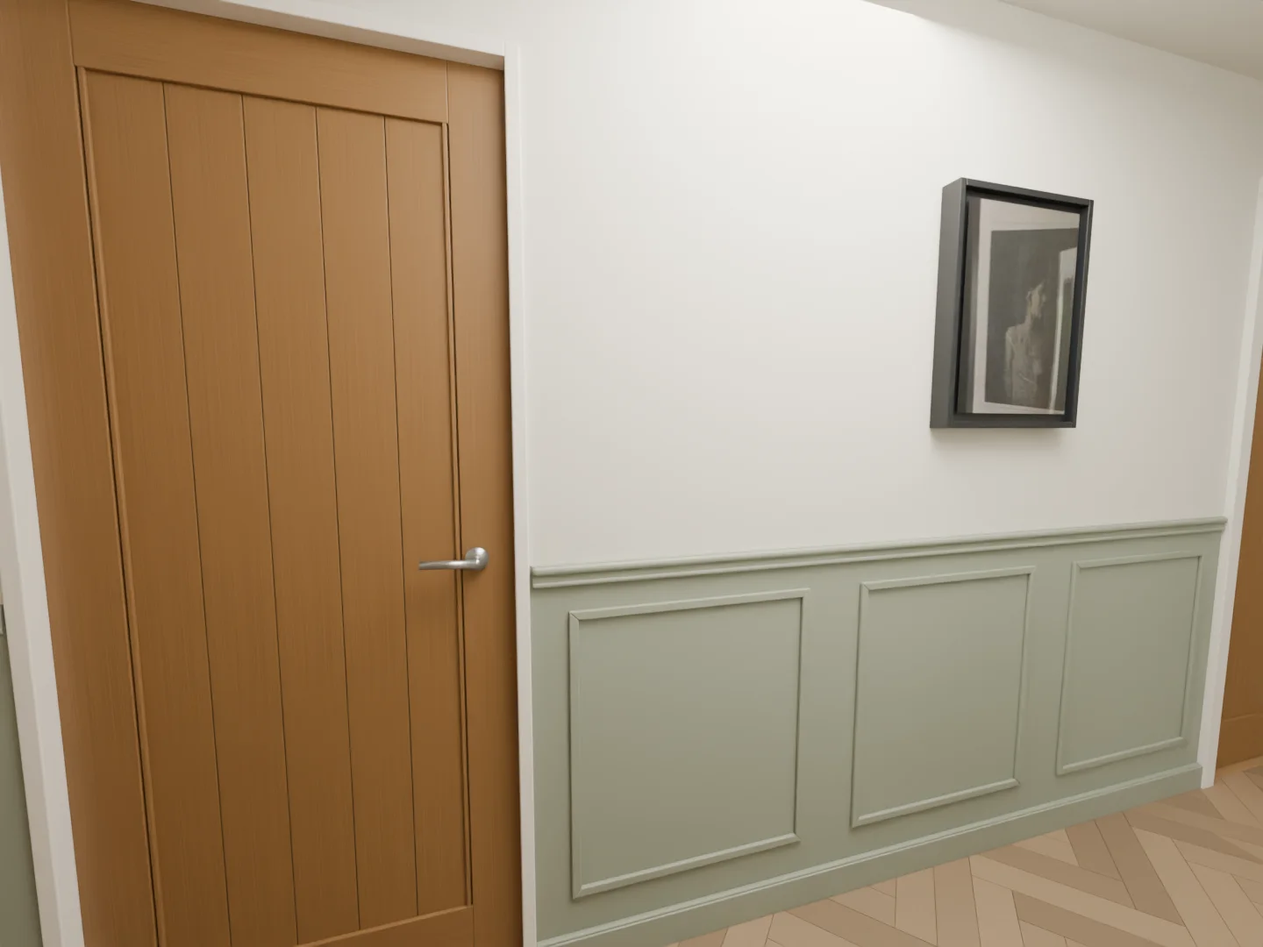
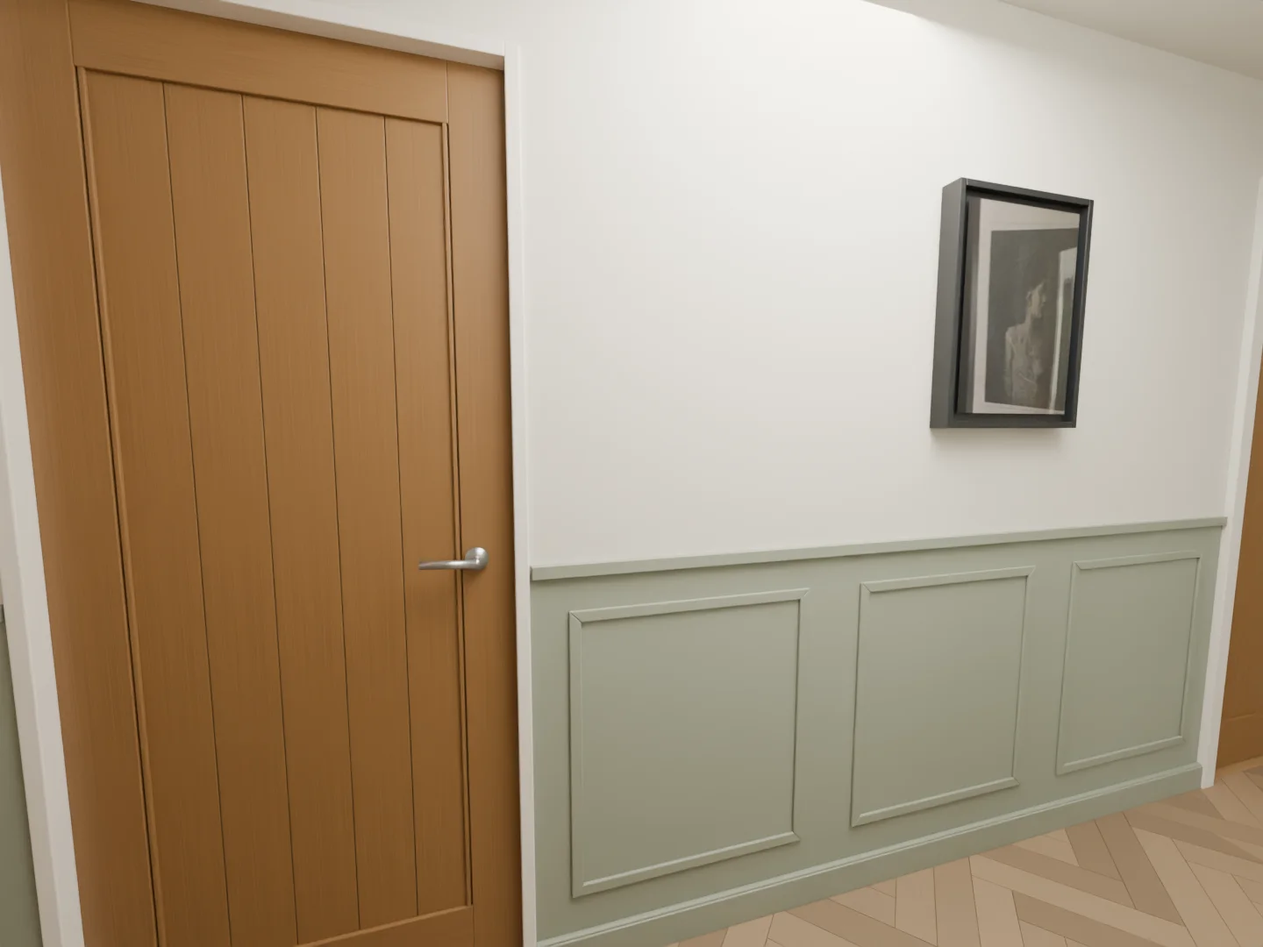
feat: use selected Wickes mouldings
Specify Wickes 121175 for main dado and 121300 for frames and
the shallow sliding-door dado. Order 8 and 23 lengths, including
one spare of each product.

Refresh the room previews, cut tables, clearance diagram and PDF.
Keep the 15 mm-deep cover moulding off the sliding-door wall.

diff --git a/frames/index.html b/frames/index.html
@@ -1,3 +1,3 @@
 <!doctype html>
 <html lang="en-GB"><head><meta charset="utf-8"><meta name="viewport" content="width=device-width,initial-scale=1"><title>Fine moulded frames | Hallway panelling</title><meta name="description" content="Fine rectangular mouldings add detail without covering the wall. A shaped dado gives the design a more traditional finish."><meta name="theme-color" content="#22352f"><link rel="stylesheet" href="../assets/style.css"><script src="../assets/gallery.js" defer></script></head>
-<body><a class="skip" href="#main">Skip to content</a><header class="site-header"><a class="wordmark" href="../">Hallway / Panelling</a><a class="pack-link" href="../assets/hallway-panelling-materials-and-cuts.pdf">Cutting pack <span>(PDF)</span> ↗</a></header><main id="main"><div class="page-title"><a class="back" href="../#options">← All three options</a><div class="title-row"><div><h1>Fine moulded frames</h1><p>Slim picture frames. A shaped dado.</p></div><div class="difficulty"><strong>Medium DIY</strong><p>16 frames need 64 accurately cut pieces. No backing sheet is needed.</p></div></div></div><nav class="section-nav" aria-label="Preview sections"><a href="#barn-door">Barn door and corner ↓</a><a href="#materials">Materials and cuts ↓</a></nav><section class="gallery" aria-label="Hallway views"><h2>Hallway views</h2><nav class="gallery-nav" aria-label="Choose hallway views"><a href="#view-hall">Towards the cupboard</a><a href="#view-hallway-rear">Rear door</a><a href="#view-hallway-bathroom">Bathroom wall</a><a href="#view-hallway-photos">Photo wall</a><a href="#view-cabinet">Cabinet wall</a><a href="#view-hallway-entrance">Entrance doorway</a><a href="#view-hallway-bedroom">Bedroom doorway</a><a href="#view-overview">Hallway plan</a></nav><figure id="view-hall"><img src="../assets/frames-hall.webp" alt="Towards the cupboard with fine moulded frames" width="1440" height="1080" loading="eager"><figcaption>Towards the cupboard</figcaption></figure><figure id="view-hallway-rear"><img src="../assets/frames-hallway-rear.webp" alt="Rear door with fine moulded frames" width="1440" height="1080" loading="lazy"><figcaption>Rear door · Doors shown closed to make the wall visible.</figcaption></figure><figure id="view-hallway-bathroom"><img src="../assets/frames-hallway-bathroom.webp" alt="Bathroom wall with fine moulded frames" width="1440" height="1080" loading="lazy"><figcaption>Bathroom wall · Doors shown closed to make the wall visible.</figcaption></figure><figure id="view-hallway-photos"><img src="../assets/frames-hallway-photos.webp" alt="Photo wall with fine moulded frames" width="1440" height="1080" loading="lazy"><figcaption>Photo wall · Doors shown closed to make the wall visible.</figcaption></figure><figure id="view-cabinet"><img src="../assets/frames-cabinet.webp" alt="Cabinet wall with fine moulded frames" width="1440" height="1080" loading="lazy"><figcaption>Cabinet wall</figcaption></figure><figure id="view-hallway-entrance"><img src="../assets/frames-hallway-entrance.webp" alt="Entrance doorway with fine moulded frames" width="1440" height="1080" loading="lazy"><figcaption>Entrance doorway · Doors shown closed to make the wall visible.</figcaption></figure><figure id="view-hallway-bedroom"><img src="../assets/frames-hallway-bedroom.webp" alt="Bedroom doorway with fine moulded frames" width="1440" height="1080" loading="lazy"><figcaption>Bedroom doorway · Doors shown closed to make the wall visible.</figcaption></figure><figure id="view-overview"><img src="../assets/frames-overview.webp" alt="Hallway plan with fine moulded frames" width="1440" height="1080" loading="lazy"><figcaption>Hallway plan</figcaption></figure></section><section class="gallery" aria-label="Entrance views"><h2>Entrance views</h2><nav class="gallery-nav" aria-label="Choose entrance views"><a href="#view-entrance-front">Front door</a><a href="#view-entrance-mirror">Mirror and radiator</a><a href="#view-entrance-hall">Connecting doorway</a><a href="#view-entrance-overview">Entrance plan</a></nav><figure id="view-entrance-front"><img src="../assets/frames-entrance-front.webp" alt="Front door with fine moulded frames" width="1440" height="1080" loading="eager"><figcaption>Front door</figcaption></figure><figure id="view-entrance-mirror"><img src="../assets/frames-entrance-mirror.webp" alt="Mirror and radiator with fine moulded frames" width="1440" height="1080" loading="lazy"><figcaption>Mirror and radiator</figcaption></figure><figure id="view-entrance-hall"><img src="../assets/frames-entrance-hall.webp" alt="Connecting doorway with fine moulded frames" width="1440" height="1080" loading="lazy"><figcaption>Connecting doorway</figcaption></figure><figure id="view-entrance-overview"><img src="../assets/frames-entrance-overview.webp" alt="Entrance plan with fine moulded frames" width="1440" height="1080" loading="lazy"><figcaption>Entrance plan</figcaption></figure></section><section id="barn-door" class="barn-check"><h2>The barn door and the corner</h2><p>The door has a measured 15 mm gap behind it. This design uses shallow trim on E1 so the door can pass. The view includes the front-door corner and the change to the deeper cap.</p><section class="gallery" aria-label="Door positions"><h2>Door positions</h2><nav class="gallery-nav" aria-label="Choose door positions"><a href="#view-barn-closed">Door closed</a><a href="#view-barn-part-open">Door partly open</a><a href="#view-barn-open">Door open</a></nav><figure id="view-barn-closed"><img src="../assets/frames-barn-closed.webp" alt="Door closed with fine moulded frames" width="1440" height="1080" loading="eager"><figcaption>Door closed</figcaption></figure><figure id="view-barn-part-open"><img src="../assets/frames-barn-part-open.webp" alt="Door partly open with fine moulded frames" width="1440" height="1080" loading="lazy"><figcaption>Door partly open</figcaption></figure><figure id="view-barn-open"><img src="../assets/frames-barn-open.webp" alt="Door open with fine moulded frames" width="1440" height="1080" loading="lazy"><figcaption>Door open</figcaption></figure></section><div class="clearance-notes"><p><strong>4 mm remains behind the door</strong> before adhesive and fitting variation. The standard 18–23 mm caps cannot pass through the 15 mm gap.</p><p>The model shows <strong>111 mm to the front-corner trim</strong> at the open pose, and 96 mm to the hallway-corner trim when closed. No trim intersects the modelled door over this travel.</p><p>Closed, partly open and open views use 0, 400 and 800 mm travel. The space beyond the barn opening is not surveyed and is shown blank. The 800 mm stop position is assumed. Measure the actual end position and dry-fit the trim with adhesive before cutting. The model does not prove clearance for an unmeasured handle or door movement.</p><p><a href="../assets/barn-clearance.svg">Open the clearance diagram ↗</a></p></div></section><p class="preview-note">The entrance floor is 25 mm lower. Its 1025 mm dado meets the hallway dado at the same physical height. The connecting wall is 140 mm thick, excluding trim.</p><div class="dimension-strip"><div><span>Dado: hall / entrance</span><strong>1000 / 1025 mm</strong></div><div><span>Frames: hall / entrance</span><strong>705 / 805 mm</strong></div><div><span>Frames in both rooms</span><strong>16</strong></div></div><nav class="section-nav" aria-label="On this page"><a href="#materials">Materials</a><a href="#cuts">Cut schedule</a><a href="#fitting">Fitting notes</a><a href="../assets/hallway-panelling-materials-and-cuts.pdf#page=7">PDF for this option ↗</a></nav><div class="document"><section id="materials"><h2>What you need</h2><p>Fine rectangular mouldings add detail without covering the wall. A shaped dado gives the design a more traditional finish.</p><div class="table-scroll" tabindex="0" role="region" aria-label="Main materials"><table><caption>Main materials</caption><thead><tr><th scope="col">Material / section (mm)</th><th scope="col">Buy</th><th scope="col">Allowance</th></tr></thead><tbody><tr><td>Panel mould, about 22 wide × 11 deep</td><td>22 × 2400 mm lengths</td><td>45.214 m installed; includes one spare length.</td></tr><tr><td>Standard shaped dado, 50 high × 19 deep</td><td>8 × 2400 mm lengths</td><td>14.290 m installed; includes one spare length.</td></tr><tr><td>Barn-wall flat dado, 50 high × 9 deep</td><td>1 × 2400 mm length</td><td>1.085 m installed. Keep this separate from the standard profile.</td></tr></tbody></table></div><details><summary>Paint, adhesive and tools</summary><div class="detail-body"><div class="table-scroll" tabindex="0" role="region" aria-label="Consumables"><table><caption>Consumables</caption><thead><tr><th scope="col">Supply</th><th scope="col">Planning allowance</th></tr></thead><tbody><tr><td>Construction adhesive, 290–310 ml</td><td>7–9 cartridges</td></tr><tr><td>Decorators caulk</td><td>3–4 cartridges</td></tr><tr><td>Fine filler</td><td>1 small tub</td></tr><tr><td>MDF / timber primer</td><td>1.5 litres</td></tr><tr><td>Coloured topcoat, two coats</td><td>About 4.1 litres</td></tr><tr><td>Other supplies</td><td>Abrasives, masking tape, dust sheets and suitable temporary fixings</td></tr></tbody></table></div><p>Coverage depends on the product and wall condition. The paint allowance uses about 17 m², two coats at 10 m² per litre and 20% extra. Use compatible wall and trim finishes. Tools include a tape, level, square, saw, mitre guide, adhesive gun and sanding tools; grooved sheets also need a guided saw and cutout templates.</p></div></details></section><section id="cuts"><h2>Lengths and cuts</h2><p>All dimensions below are in millimetres. Nominal sizes are intended finished sizes before corner details and site variation. Check the wall ends and profile samples before making final cuts.</p><div class="table-scroll" tabindex="0" role="region" aria-label="Frame cuts — outside long points"><table><caption>Frame cuts — outside long points</caption><thead><tr><th scope="col">Frame</th><th scope="col">Left edge (mm)</th><th scope="col">2 horizontal cuts (mm)</th><th scope="col">2 vertical cuts (mm)</th></tr></thead><tbody><tr><td>W2a-F1</td><td>95</td><td>815</td><td>705</td></tr><tr><td>W2a-F2</td><td>1,005</td><td>900</td><td>705</td></tr><tr><td>W3a-F1</td><td>95</td><td>460</td><td>705</td></tr><tr><td>W3a-F2</td><td>650</td><td>805</td><td>705</td></tr><tr><td>W3a-F3</td><td>1,550</td><td>500</td><td>705</td></tr><tr><td>W5b-F1</td><td>1,161</td><td>629.3</td><td>705</td></tr><tr><td>W5b-F2</td><td>1,950.3</td><td>629.3</td><td>705</td></tr><tr><td>W5b-F3</td><td>2,739.7</td><td>629.3</td><td>705</td></tr><tr><td>W6b-F1</td><td>1,060</td><td>810</td><td>705</td></tr><tr><td>W6b-F2</td><td>2,020</td><td>920</td><td>705</td></tr><tr><td>W6b-F3</td><td>3,090</td><td>935</td><td>705</td></tr><tr><td>W7a-F1</td><td>86</td><td>288</td><td>705</td></tr><tr><td>E1b-F1</td><td>941</td><td>778</td><td>805</td></tr><tr><td>E2b-F1</td><td>1,076</td><td>248</td><td>805</td></tr><tr><td>E3a-F1</td><td>80</td><td>1,000</td><td>805</td></tr><tr><td>E3a-F2</td><td>1,160</td><td>580</td><td>805</td></tr></tbody></table></div><details><summary>Wall key and all dado lengths <span>15.375 m total</span></summary><div class="detail-body"><p>All three options use these 20 wall-face runs across both rooms. Apply the schedule once for each continuous rail or cap part. W1 is the rear door and has no rail.</p><img class="wall-key" src="../assets/wall-key.svg" alt="Numbered hallway walls, from W1 at the rear door clockwise to W8 at the rear recess" width="650" height="560"><img class="wall-key" src="../assets/entrance-wall-key.svg" alt="Entrance wall key: E1 barn wall, E2 front door, E3 mirror wall, E4 connecting doorway" width="650" height="560"><div class="table-scroll" tabindex="0" role="region" aria-label="Nominal rail lengths"><table><caption>Nominal rail lengths</caption><thead><tr><th scope="col">Run</th><th scope="col">Wall section</th><th scope="col">Length (mm)</th></tr></thead><tbody><tr><td>W2a</td><td>Bathroom wall</td><td>2,000</td></tr><tr><td>W2b</td><td>Bathroom wall</td><td>220</td></tr><tr><td>W3a</td><td>Wedding-photo wall</td><td>2,145</td></tr><tr><td>W3b</td><td>Wedding-photo wall</td><td>190</td></tr><tr><td>W4a</td><td>Storage wall</td><td>107.5</td></tr><tr><td>W4b</td><td>Storage wall</td><td>107.5</td></tr><tr><td>W5a</td><td>Entrance and spare-bedroom wall</td><td>190</td></tr><tr><td>W5b</td><td>Entrance and spare-bedroom wall</td><td>2,380</td></tr><tr><td>W5c</td><td>Entrance and spare-bedroom wall</td><td>235</td></tr><tr><td>W6a</td><td>Kitchen and cabinet wall</td><td>110</td></tr><tr><td>W6b</td><td>Kitchen and cabinet wall</td><td>3,120</td></tr><tr><td>W7a</td><td>Rear boxing face</td><td>460</td></tr><tr><td>W8a</td><td>Rear recess return</td><td>180</td></tr><tr><td>E1a</td><td>Entrance barn wall</td><td>135</td></tr><tr><td>E1b</td><td>Entrance barn wall</td><td>950</td></tr><tr><td>E2a</td><td>Entrance front wall</td><td>90</td></tr><tr><td>E2b</td><td>Entrance front wall</td><td>420</td></tr><tr><td>E3a</td><td>Entrance mirror wall</td><td>1,800</td></tr><tr><td>E4a</td><td>Entrance connecting wall</td><td>260</td></tr><tr><td>E4b</td><td>Entrance connecting wall</td><td>275</td></tr></tbody></table></div><p>W4a and W4b assume the 990 mm storage frame is centred in the 1205 mm end wall. The 3120 mm W6b run needs a joint; allow two 1560 mm nominal pieces. For the 2400 mm shaped dado and grooved-panel caps, also split W5b (2380 mm) into two 1190 mm nominal pieces. This keeps the 30 mm trimming allowance. The Shaker top rails still use 2440 mm MDF strips; its standard cap uses the separate 10 mm allowance.</p></div></details><details><summary>Stock cutting schedule <span>Rough blanks in mm</span></summary><div class="detail-body"><p>These blanks include trimming allowance. They are not the final cut sizes. Keep every piece labelled. The schedule allows 3 mm saw loss per cut.</p><div class="table-scroll" tabindex="0" role="region" aria-label="Panel mould — 2400 mm stock"><table><caption>Panel mould — 2400 mm stock</caption><thead><tr><th scope="col">Stock / row</th><th scope="col">Blank labels and lengths (mm)</th><th scope="col">Left over (mm)</th></tr></thead><tbody><tr><td>1</td><td>E3a-F1H1: 1,030 + E3a-F1H2: 1,030 + W7a-F1H1: 318</td><td>3</td></tr><tr><td>2</td><td>W6b-F3H1: 965 + W6b-F3H2: 965 + W7a-F1H2: 318</td><td>133</td></tr><tr><td>3</td><td>W6b-F2H1: 950 + W6b-F2H2: 950 + E2b-F1H1: 278</td><td>203</td></tr><tr><td>4</td><td>W2a-F2H1: 930 + W2a-F2H2: 930 + W3a-F1H1: 490</td><td>31</td></tr><tr><td>5</td><td>W2a-F1H1: 845 + W2a-F1H2: 845 + W5b-F1H1: 660</td><td>31</td></tr><tr><td>6</td><td>W6b-F1H1: 840 + W6b-F1H2: 840 + W5b-F1H2: 660</td><td>41</td></tr><tr><td>7</td><td>W3a-F2H1: 835 + W3a-F2H2: 835 + W5b-F2H1: 660</td><td>51</td></tr><tr><td>8</td><td>E1b-F1V1: 835 + E1b-F1V2: 835 + W5b-F2H2: 660</td><td>51</td></tr><tr><td>9</td><td>E2b-F1V1: 835 + E2b-F1V2: 835 + W5b-F3H1: 660</td><td>51</td></tr><tr><td>10</td><td>E3a-F1V1: 835 + E3a-F1V2: 835 + W5b-F3H2: 660</td><td>51</td></tr><tr><td>11</td><td>E3a-F2V1: 835 + E3a-F2V2: 835 + E3a-F2H1: 610</td><td>101</td></tr><tr><td>12</td><td>E1b-F1H1: 808 + E1b-F1H2: 808 + W2a-F1V1: 735</td><td>30</td></tr><tr><td>13</td><td>W2a-F1V2: 735 + W2a-F2V1: 735 + W2a-F2V2: 735</td><td>176</td></tr><tr><td>14</td><td>W3a-F1V1: 735 + W3a-F1V2: 735 + W3a-F2V1: 735</td><td>176</td></tr><tr><td>15</td><td>W3a-F2V2: 735 + W3a-F3V1: 735 + W3a-F3V2: 735</td><td>176</td></tr><tr><td>16</td><td>W5b-F1V1: 735 + W5b-F1V2: 735 + W5b-F2V1: 735</td><td>176</td></tr><tr><td>17</td><td>W5b-F2V2: 735 + W5b-F3V1: 735 + W5b-F3V2: 735</td><td>176</td></tr><tr><td>18</td><td>W6b-F1V1: 735 + W6b-F1V2: 735 + W6b-F2V1: 735</td><td>176</td></tr><tr><td>19</td><td>W6b-F2V2: 735 + W6b-F3V1: 735 + W6b-F3V2: 735</td><td>176</td></tr><tr><td>20</td><td>W7a-F1V1: 735 + W7a-F1V2: 735 + E3a-F2H2: 610 + E2b-F1H2: 278</td><td>20</td></tr><tr><td>21</td><td>W3a-F3H1: 530 + W3a-F3H2: 530 + W3a-F1H2: 490</td><td>831</td></tr></tbody></table></div><div class="table-scroll" tabindex="0" role="region" aria-label="Standard shaped dado — 2400 mm stock"><table><caption>Standard shaped dado — 2400 mm stock</caption><thead><tr><th scope="col">Stock / row</th><th scope="col">Blank labels and lengths (mm)</th><th scope="col">Left over (mm)</th></tr></thead><tbody><tr><td>1</td><td>W3a: 2,175 + W6a: 140</td><td>69</td></tr><tr><td>2</td><td>W2a: 2,030 + E4b: 305</td><td>49</td></tr><tr><td>3</td><td>E3a: 1,830 + W7a: 490</td><td>64</td></tr><tr><td>4</td><td>W6b-1: 1,590 + E2b: 450 + E4a: 290</td><td>51</td></tr><tr><td>5</td><td>W6b-2: 1,590 + W5c: 265 + W2b: 250 + W3b: 220</td><td>53</td></tr><tr><td>6</td><td>W5b-1: 1,220 + W5a: 220 + W8a: 210 + W4a: 138 + W4b: 138 + E2a: 120</td><td>326</td></tr><tr><td>7</td><td>W5b-2: 1,220</td><td>1,167</td></tr></tbody></table></div><div class="table-scroll" tabindex="0" role="region" aria-label="Shallow barn-wall dado — 2400 mm stock"><table><caption>Shallow barn-wall dado — 2400 mm stock</caption><thead><tr><th scope="col">Stock / row</th><th scope="col">Blank labels and lengths (mm)</th><th scope="col">Left over (mm)</th></tr></thead><tbody><tr><td>1</td><td>E1b: 980 + E1a: 165</td><td>1,239</td></tr></tbody></table></div><p>Linear MDF, mould and dado blanks allow 30 mm extra per piece and 10 mm stock-end trimming. Only the standard Shaker cap schedule allows 10 mm extra per piece and 5 mm stock-end trimming. Check stock lengths first and use the spare if needed. Corner projections and actual wall angles set the final end cuts.</p></div></details></section><section id="fitting"><h2>Fit it to the room</h2><ol class="fitting-list"><li>Select a physical moulding sample before cutting. One shaped dado replaces the small profile layers shown in the render.</li><li>Hallway frames run from 185 to 890 mm above the floor. Entrance frames run from 110 to 915 mm. The dado starts at 950 and 975 mm respectively.</li><li>E1 uses a flat 9 mm dado. Its 11 mm frame mould leaves only 4 mm to the door before adhesive. Dry-fit the finished build-up through the full door travel.</li><li>Frame cuts are measured from outside long point to outside long point. Do not subtract the moulding width. Both ends are mitred.</li><li>One full frame continues behind each radiator. Check pipes, valves and brackets, and leave local gaps where needed. Radiator removal may need trade support.</li><li>Left edges are measured from the clockwise start of the whole numbered wall. Set equal frame widths on site.</li></ol><aside class="check"><h3>Still to check on site</h3><p>Measure the hallway radiator floor gaps, all valve and pipe positions, the depth at the top of the skirting, and the barn-door stop position. Pipes run above the skirting: no skirting notches are included. The hallway survey retains a 20 × 10 mm closure difference. The entrance has a 5 mm width and depth difference. Check corner angles and final wall lengths.</p></aside><a class="button" href="../assets/hallway-panelling-materials-and-cuts.pdf#page=7">Open the full cutting pack <span>↗</span></a></section></div><a class="next-option" href="../grooved/"><span>Next option</span><strong>Vertical grooved panels ↗</strong></a></main><footer><div><a class="wordmark" href="../">Hallway / Panelling</a><p>Three designs for the hallway and entrance.</p></div><nav aria-label="All options"><a href="../shaker/">Simple Shaker</a><a href="../frames/" aria-current="page">Fine moulded frames</a><a href="../grooved/">Vertical grooved panels</a></nav><p class="footer-note">Planning issue · 20 October 2026<br>Check final dimensions on site before cutting.</p></footer></body></html>
+<body><a class="skip" href="#main">Skip to content</a><header class="site-header"><a class="wordmark" href="../">Hallway / Panelling</a><a class="pack-link" href="../assets/hallway-panelling-materials-and-cuts.pdf">Cutting pack <span>(PDF)</span> ↗</a></header><main id="main"><div class="page-title"><a class="back" href="../#options">← All three options</a><div class="title-row"><div><h1>Fine moulded frames</h1><p>Wickes 3 Rise frames. A slim decorative dado.</p></div><div class="difficulty"><strong>Medium DIY</strong><p>16 frames need 64 accurately cut pieces. No backing sheet is needed.</p></div></div></div><nav class="section-nav" aria-label="Preview sections"><a href="#barn-door">Barn door and corner ↓</a><a href="#materials">Materials and cuts ↓</a></nav><section class="gallery" aria-label="Hallway views"><h2>Hallway views</h2><nav class="gallery-nav" aria-label="Choose hallway views"><a href="#view-hall">Towards the cupboard</a><a href="#view-hallway-rear">Rear door</a><a href="#view-hallway-bathroom">Bathroom wall</a><a href="#view-hallway-photos">Photo wall</a><a href="#view-cabinet">Cabinet wall</a><a href="#view-hallway-entrance">Entrance doorway</a><a href="#view-hallway-bedroom">Bedroom doorway</a><a href="#view-overview">Hallway plan</a></nav><figure id="view-hall"><img src="../assets/frames-hall.webp" alt="Towards the cupboard with fine moulded frames" width="1440" height="1080" loading="eager"><figcaption>Towards the cupboard</figcaption></figure><figure id="view-hallway-rear"><img src="../assets/frames-hallway-rear.webp" alt="Rear door with fine moulded frames" width="1440" height="1080" loading="lazy"><figcaption>Rear door · Doors shown closed to make the wall visible.</figcaption></figure><figure id="view-hallway-bathroom"><img src="../assets/frames-hallway-bathroom.webp" alt="Bathroom wall with fine moulded frames" width="1440" height="1080" loading="lazy"><figcaption>Bathroom wall · Doors shown closed to make the wall visible.</figcaption></figure><figure id="view-hallway-photos"><img src="../assets/frames-hallway-photos.webp" alt="Photo wall with fine moulded frames" width="1440" height="1080" loading="lazy"><figcaption>Photo wall · Doors shown closed to make the wall visible.</figcaption></figure><figure id="view-cabinet"><img src="../assets/frames-cabinet.webp" alt="Cabinet wall with fine moulded frames" width="1440" height="1080" loading="lazy"><figcaption>Cabinet wall</figcaption></figure><figure id="view-hallway-entrance"><img src="../assets/frames-hallway-entrance.webp" alt="Entrance doorway with fine moulded frames" width="1440" height="1080" loading="lazy"><figcaption>Entrance doorway · Doors shown closed to make the wall visible.</figcaption></figure><figure id="view-hallway-bedroom"><img src="../assets/frames-hallway-bedroom.webp" alt="Bedroom doorway with fine moulded frames" width="1440" height="1080" loading="lazy"><figcaption>Bedroom doorway · Doors shown closed to make the wall visible.</figcaption></figure><figure id="view-overview"><img src="../assets/frames-overview.webp" alt="Hallway plan with fine moulded frames" width="1440" height="1080" loading="lazy"><figcaption>Hallway plan</figcaption></figure></section><section class="gallery" aria-label="Entrance views"><h2>Entrance views</h2><nav class="gallery-nav" aria-label="Choose entrance views"><a href="#view-entrance-front">Front door</a><a href="#view-entrance-mirror">Mirror and radiator</a><a href="#view-entrance-hall">Connecting doorway</a><a href="#view-entrance-overview">Entrance plan</a></nav><figure id="view-entrance-front"><img src="../assets/frames-entrance-front.webp" alt="Front door with fine moulded frames" width="1440" height="1080" loading="eager"><figcaption>Front door</figcaption></figure><figure id="view-entrance-mirror"><img src="../assets/frames-entrance-mirror.webp" alt="Mirror and radiator with fine moulded frames" width="1440" height="1080" loading="lazy"><figcaption>Mirror and radiator</figcaption></figure><figure id="view-entrance-hall"><img src="../assets/frames-entrance-hall.webp" alt="Connecting doorway with fine moulded frames" width="1440" height="1080" loading="lazy"><figcaption>Connecting doorway</figcaption></figure><figure id="view-entrance-overview"><img src="../assets/frames-entrance-overview.webp" alt="Entrance plan with fine moulded frames" width="1440" height="1080" loading="lazy"><figcaption>Entrance plan</figcaption></figure></section><section id="barn-door" class="barn-check"><h2>The barn door and the corner</h2><p>The door has a measured 15 mm gap behind it. This design uses shallow trim on E1 so the door can pass. The view includes the front-door corner and the change to the deeper cap.</p><section class="gallery" aria-label="Door positions"><h2>Door positions</h2><nav class="gallery-nav" aria-label="Choose door positions"><a href="#view-barn-closed">Door closed</a><a href="#view-barn-part-open">Door partly open</a><a href="#view-barn-open">Door open</a></nav><figure id="view-barn-closed"><img src="../assets/frames-barn-closed.webp" alt="Door closed with fine moulded frames" width="1440" height="1080" loading="eager"><figcaption>Door closed</figcaption></figure><figure id="view-barn-part-open"><img src="../assets/frames-barn-part-open.webp" alt="Door partly open with fine moulded frames" width="1440" height="1080" loading="lazy"><figcaption>Door partly open</figcaption></figure><figure id="view-barn-open"><img src="../assets/frames-barn-open.webp" alt="Door open with fine moulded frames" width="1440" height="1080" loading="lazy"><figcaption>Door open</figcaption></figure></section><div class="clearance-notes"><p><strong>6 mm remains behind the door</strong> before adhesive and fitting variation. The 15 mm-deep cover moulding uses the full door gap, so E1 uses the 9 mm-deep 3 Rise moulding for its dado and frame.</p><p>The model shows <strong>115 mm to the front-corner trim</strong> at the open pose, and 100 mm to the hallway-corner trim when closed. No trim intersects the modelled door over this travel.</p><p>Closed, partly open and open views use 0, 400 and 800 mm travel. The space beyond the barn opening is not surveyed and is shown blank. The 800 mm stop position is assumed. Measure the actual end position and dry-fit the trim with adhesive before cutting. The model does not prove clearance for an unmeasured handle or door movement.</p><p><a href="../assets/barn-clearance.svg">Open the clearance diagram ↗</a></p></div></section><p class="preview-note">The entrance floor is 25 mm lower. Its 1025 mm dado meets the hallway dado at the same physical height. The connecting wall is 140 mm thick, excluding trim.</p><div class="dimension-strip"><div><span>Dado: hall / entrance</span><strong>1000 / 1025 mm</strong></div><div><span>Frames: hall / entrance</span><strong>705 / 805 mm</strong></div><div><span>Frames in both rooms</span><strong>16</strong></div></div><nav class="section-nav" aria-label="On this page"><a href="#materials">Materials</a><a href="#cuts">Cut schedule</a><a href="#fitting">Fitting notes</a><a href="../assets/hallway-panelling-materials-and-cuts.pdf#page=7">PDF for this option ↗</a></nav><div class="document"><section id="materials"><h2>What you need</h2><p>Fine rectangular mouldings add detail without covering the wall. A shaped dado gives the design a more traditional finish.</p><div class="table-scroll" tabindex="0" role="region" aria-label="Main materials"><table><caption>Main materials</caption><thead><tr><th scope="col">Material / section (mm)</th><th scope="col">Buy</th><th scope="col">Allowance</th></tr></thead><tbody><tr><td>Wickes Pine 3 Rise Panel Moulding (121300), 28 wide × 9 deep</td><td>23 × 2400 mm lengths</td><td>45.214 m of frames + 1.085 m of barn-wall dado; includes one spare length.</td></tr><tr><td>Wickes Pine Decorative Cover Moulding (121175), 29 high × 15 deep</td><td>8 × 2400 mm lengths</td><td>14.290 m installed; includes one spare length.</td></tr><tr><td>Barn-wall dado: use the same 28 × 9 mm 3 Rise moulding</td><td>Included in the 23 lengths above</td><td>E1a: 135 mm; E1b: 950 mm. Do not use the 15 mm-deep cover moulding here.</td></tr></tbody></table></div><p>Selected products: <a href="https://www.wickes.co.uk/Wickes-Pine-Decorative-Cover-Moulding---29-x-15-x-2400mm/p/121175">Wickes Pine Decorative Cover Moulding (121175)</a> · <a href="https://www.wickes.co.uk/Wickes-Pine-3-Rise-Panel-Moulding---28-x-9-x-2400mm/p/121300">Wickes Pine 3 Rise Panel Moulding (121300)</a>. The previews use the stated overall sections; decorative face details are simplified.</p><details><summary>Paint, adhesive and tools</summary><div class="detail-body"><div class="table-scroll" tabindex="0" role="region" aria-label="Consumables"><table><caption>Consumables</caption><thead><tr><th scope="col">Supply</th><th scope="col">Planning allowance</th></tr></thead><tbody><tr><td>Construction adhesive, 290–310 ml</td><td>7–9 cartridges</td></tr><tr><td>Decorators caulk</td><td>3–4 cartridges</td></tr><tr><td>Fine filler</td><td>1 small tub</td></tr><tr><td>MDF / timber primer</td><td>1.5 litres</td></tr><tr><td>Coloured topcoat, two coats</td><td>About 4.1 litres</td></tr><tr><td>Other supplies</td><td>Abrasives, masking tape, dust sheets and suitable temporary fixings</td></tr></tbody></table></div><p>Coverage depends on the product and wall condition. The paint allowance uses about 17 m², two coats at 10 m² per litre and 20% extra. Use compatible wall and trim finishes. Tools include a tape, level, square, saw, mitre guide, adhesive gun and sanding tools; grooved sheets also need a guided saw and cutout templates.</p></div></details></section><section id="cuts"><h2>Lengths and cuts</h2><p>All dimensions below are in millimetres. Nominal sizes are intended finished sizes before corner details and site variation. Check the wall ends and profile samples before making final cuts.</p><div class="table-scroll" tabindex="0" role="region" aria-label="Frame cuts — outside long points"><table><caption>Frame cuts — outside long points</caption><thead><tr><th scope="col">Frame</th><th scope="col">Left edge (mm)</th><th scope="col">2 horizontal cuts (mm)</th><th scope="col">2 vertical cuts (mm)</th></tr></thead><tbody><tr><td>W2a-F1</td><td>95</td><td>815</td><td>705</td></tr><tr><td>W2a-F2</td><td>1,005</td><td>900</td><td>705</td></tr><tr><td>W3a-F1</td><td>95</td><td>460</td><td>705</td></tr><tr><td>W3a-F2</td><td>650</td><td>805</td><td>705</td></tr><tr><td>W3a-F3</td><td>1,550</td><td>500</td><td>705</td></tr><tr><td>W5b-F1</td><td>1,161</td><td>629.3</td><td>705</td></tr><tr><td>W5b-F2</td><td>1,950.3</td><td>629.3</td><td>705</td></tr><tr><td>W5b-F3</td><td>2,739.7</td><td>629.3</td><td>705</td></tr><tr><td>W6b-F1</td><td>1,060</td><td>810</td><td>705</td></tr><tr><td>W6b-F2</td><td>2,020</td><td>920</td><td>705</td></tr><tr><td>W6b-F3</td><td>3,090</td><td>935</td><td>705</td></tr><tr><td>W7a-F1</td><td>86</td><td>288</td><td>705</td></tr><tr><td>E1b-F1</td><td>941</td><td>778</td><td>805</td></tr><tr><td>E2b-F1</td><td>1,076</td><td>248</td><td>805</td></tr><tr><td>E3a-F1</td><td>80</td><td>1,000</td><td>805</td></tr><tr><td>E3a-F2</td><td>1,160</td><td>580</td><td>805</td></tr></tbody></table></div><details><summary>Wall key and all dado lengths <span>15.375 m total</span></summary><div class="detail-body"><p>All three options use these 20 wall-face runs across both rooms. Apply the schedule once for each continuous rail or cap part. W1 is the rear door and has no rail.</p><img class="wall-key" src="../assets/wall-key.svg" alt="Numbered hallway walls, from W1 at the rear door clockwise to W8 at the rear recess" width="650" height="560"><img class="wall-key" src="../assets/entrance-wall-key.svg" alt="Entrance wall key: E1 barn wall, E2 front door, E3 mirror wall, E4 connecting doorway" width="650" height="560"><div class="table-scroll" tabindex="0" role="region" aria-label="Nominal rail lengths"><table><caption>Nominal rail lengths</caption><thead><tr><th scope="col">Run</th><th scope="col">Wall section</th><th scope="col">Length (mm)</th></tr></thead><tbody><tr><td>W2a</td><td>Bathroom wall</td><td>2,000</td></tr><tr><td>W2b</td><td>Bathroom wall</td><td>220</td></tr><tr><td>W3a</td><td>Wedding-photo wall</td><td>2,145</td></tr><tr><td>W3b</td><td>Wedding-photo wall</td><td>190</td></tr><tr><td>W4a</td><td>Storage wall</td><td>107.5</td></tr><tr><td>W4b</td><td>Storage wall</td><td>107.5</td></tr><tr><td>W5a</td><td>Entrance and spare-bedroom wall</td><td>190</td></tr><tr><td>W5b</td><td>Entrance and spare-bedroom wall</td><td>2,380</td></tr><tr><td>W5c</td><td>Entrance and spare-bedroom wall</td><td>235</td></tr><tr><td>W6a</td><td>Kitchen and cabinet wall</td><td>110</td></tr><tr><td>W6b</td><td>Kitchen and cabinet wall</td><td>3,120</td></tr><tr><td>W7a</td><td>Rear boxing face</td><td>460</td></tr><tr><td>W8a</td><td>Rear recess return</td><td>180</td></tr><tr><td>E1a</td><td>Entrance barn wall</td><td>135</td></tr><tr><td>E1b</td><td>Entrance barn wall</td><td>950</td></tr><tr><td>E2a</td><td>Entrance front wall</td><td>90</td></tr><tr><td>E2b</td><td>Entrance front wall</td><td>420</td></tr><tr><td>E3a</td><td>Entrance mirror wall</td><td>1,800</td></tr><tr><td>E4a</td><td>Entrance connecting wall</td><td>260</td></tr><tr><td>E4b</td><td>Entrance connecting wall</td><td>275</td></tr></tbody></table></div><p>W4a and W4b assume the 990 mm storage frame is centred in the 1205 mm end wall. The 3120 mm W6b run needs a joint; allow two 1560 mm nominal pieces. For the 2400 mm shaped dado and grooved-panel caps, also split W5b (2380 mm) into two 1190 mm nominal pieces. This keeps the 30 mm trimming allowance. The Shaker top rails still use 2440 mm MDF strips; its standard cap uses the separate 10 mm allowance.</p></div></details><details><summary>Stock cutting schedule <span>Rough blanks in mm</span></summary><div class="detail-body"><p>These blanks include trimming allowance. They are not the final cut sizes. Keep every piece labelled. The schedule allows 3 mm saw loss per cut.</p><div class="table-scroll" tabindex="0" role="region" aria-label="Wickes 121300: frames + E1 dado — 2400 mm stock"><table><caption>Wickes 121300: frames + E1 dado — 2400 mm stock</caption><thead><tr><th scope="col">Stock / row</th><th scope="col">Blank labels and lengths (mm)</th><th scope="col">Left over (mm)</th></tr></thead><tbody><tr><td>1</td><td>E3a-F1H1: 1,030 + E3a-F1H2: 1,030 + W7a-F1H1: 318</td><td>3</td></tr><tr><td>2</td><td>E1b-D: 980 + W6b-F3H1: 965 + W7a-F1H2: 318</td><td>118</td></tr><tr><td>3</td><td>W6b-F3H2: 965 + W6b-F2H1: 950 + E2b-F1H1: 278 + E1a-D: 165</td><td>20</td></tr><tr><td>4</td><td>W6b-F2H2: 950 + W2a-F2H1: 930 + W3a-F1H1: 490</td><td>11</td></tr><tr><td>5</td><td>W2a-F2H2: 930 + W2a-F1H1: 845 + W3a-F3H1: 530</td><td>76</td></tr><tr><td>6</td><td>W2a-F1H2: 845 + W6b-F1H1: 840 + W5b-F1H1: 660</td><td>36</td></tr><tr><td>7</td><td>W6b-F1H2: 840 + W3a-F2H1: 835 + W5b-F1H2: 660</td><td>46</td></tr><tr><td>8</td><td>W3a-F2H2: 835 + E1b-F1V1: 835 + W5b-F2H1: 660</td><td>51</td></tr><tr><td>9</td><td>E1b-F1V2: 835 + E2b-F1V1: 835 + W5b-F2H2: 660</td><td>51</td></tr><tr><td>10</td><td>E2b-F1V2: 835 + E3a-F1V1: 835 + W5b-F3H1: 660</td><td>51</td></tr><tr><td>11</td><td>E3a-F1V2: 835 + E3a-F2V1: 835 + W5b-F3H2: 660</td><td>51</td></tr><tr><td>12</td><td>E3a-F2V2: 835 + E1b-F1H1: 808 + W2a-F1V1: 735</td><td>3</td></tr><tr><td>13</td><td>E1b-F1H2: 808 + W2a-F1V2: 735 + W2a-F2V1: 735</td><td>103</td></tr><tr><td>14</td><td>W2a-F2V2: 735 + W3a-F1V1: 735 + W3a-F1V2: 735</td><td>176</td></tr><tr><td>15</td><td>W3a-F2V1: 735 + W3a-F2V2: 735 + W3a-F3V1: 735</td><td>176</td></tr><tr><td>16</td><td>W3a-F3V2: 735 + W5b-F1V1: 735 + W5b-F1V2: 735</td><td>176</td></tr><tr><td>17</td><td>W5b-F2V1: 735 + W5b-F2V2: 735 + W5b-F3V1: 735</td><td>176</td></tr><tr><td>18</td><td>W5b-F3V2: 735 + W6b-F1V1: 735 + W6b-F1V2: 735</td><td>176</td></tr><tr><td>19</td><td>W6b-F2V1: 735 + W6b-F2V2: 735 + W6b-F3V1: 735</td><td>176</td></tr><tr><td>20</td><td>W6b-F3V2: 735 + W7a-F1V1: 735 + W7a-F1V2: 735</td><td>176</td></tr><tr><td>21</td><td>E3a-F2H1: 610 + E3a-F2H2: 610 + W3a-F3H2: 530 + W3a-F1H2: 490</td><td>138</td></tr><tr><td>22</td><td>E2b-F1H2: 278</td><td>2,109</td></tr></tbody></table></div><div class="table-scroll" tabindex="0" role="region" aria-label="Wickes 121175: main dado — 2400 mm stock"><table><caption>Wickes 121175: main dado — 2400 mm stock</caption><thead><tr><th scope="col">Stock / row</th><th scope="col">Blank labels and lengths (mm)</th><th scope="col">Left over (mm)</th></tr></thead><tbody><tr><td>1</td><td>W3a: 2,175 + W6a: 140</td><td>69</td></tr><tr><td>2</td><td>W2a: 2,030 + E4b: 305</td><td>49</td></tr><tr><td>3</td><td>E3a: 1,830 + W7a: 490</td><td>64</td></tr><tr><td>4</td><td>W6b-1: 1,590 + E2b: 450 + E4a: 290</td><td>51</td></tr><tr><td>5</td><td>W6b-2: 1,590 + W5c: 265 + W2b: 250 + W3b: 220</td><td>53</td></tr><tr><td>6</td><td>W5b-1: 1,220 + W5a: 220 + W8a: 210 + W4a: 138 + W4b: 138 + E2a: 120</td><td>326</td></tr><tr><td>7</td><td>W5b-2: 1,220</td><td>1,167</td></tr></tbody></table></div><p>Linear MDF, mould and dado blanks allow 30 mm extra per piece and 10 mm stock-end trimming. Only the standard Shaker cap schedule allows 10 mm extra per piece and 5 mm stock-end trimming. Check stock lengths first and use the spare if needed. Corner projections and actual wall angles set the final end cuts.</p></div></details></section><section id="fitting"><h2>Fit it to the room</h2><ol class="fitting-list"><li>Use Wickes 121175 for the main dado and Wickes 121300 for all frames and the E1 dado. Fit both directly to the wall without a backing strip.</li><li>Keep the dado top at 1000 mm in the hallway and 1025 mm in the entrance. The 29 mm main dado starts at 971 / 996 mm. The 28 mm E1 dado starts at 997 mm above the entrance floor; align the tops and fit the 1 mm bottom-edge change with a physical sample.</li><li>Frames keep their existing outer sizes: 705 mm high in the hallway and 805 mm in the entrance. The 28 mm moulding makes each clear opening 12 mm smaller than the earlier 22 mm proposal.</li><li>E1 uses the 9 mm-deep 3 Rise moulding for both the frame and dado. This leaves 6 mm within the 15 mm door gap before adhesive and wall variation. The 15 mm cover moulding has no working clearance there. Dry-fit through the full door travel.</li><li>The entrance lower frame member runs from 110 to 138 mm above the floor. Check the estimated 150 mm pipe entries, measured 160 mm bracket bottom and all valve clearances.</li><li>Frame cuts are measured from outside long point to outside long point. Do not subtract the moulding width. Both ends are mitred.</li><li>One full frame continues behind each radiator. Check pipes, valves and brackets, and leave local gaps where needed. Radiator removal may need trade support.</li><li>Left edges are measured from the clockwise start of the whole numbered wall. Set equal frame widths on site.</li></ol><aside class="check"><h3>Still to check on site</h3><p>Measure the hallway radiator floor gaps, all valve and pipe positions, the depth at the top of the skirting, and the barn-door stop position. Pipes run above the skirting: no skirting notches are included. The hallway survey retains a 20 × 10 mm closure difference. The entrance has a 5 mm width and depth difference. Check corner angles and final wall lengths.</p></aside><a class="button" href="../assets/hallway-panelling-materials-and-cuts.pdf#page=7">Open the full cutting pack <span>↗</span></a></section></div><a class="next-option" href="../grooved/"><span>Next option</span><strong>Vertical grooved panels ↗</strong></a></main><footer><div><a class="wordmark" href="../">Hallway / Panelling</a><p>Three designs for the hallway and entrance.</p></div><nav aria-label="All options"><a href="../shaker/">Simple Shaker</a><a href="../frames/" aria-current="page">Fine moulded frames</a><a href="../grooved/">Vertical grooved panels</a></nav><p class="footer-note">Planning issue · 20 October 2026<br>Check final dimensions on site before cutting.</p></footer></body></html>
